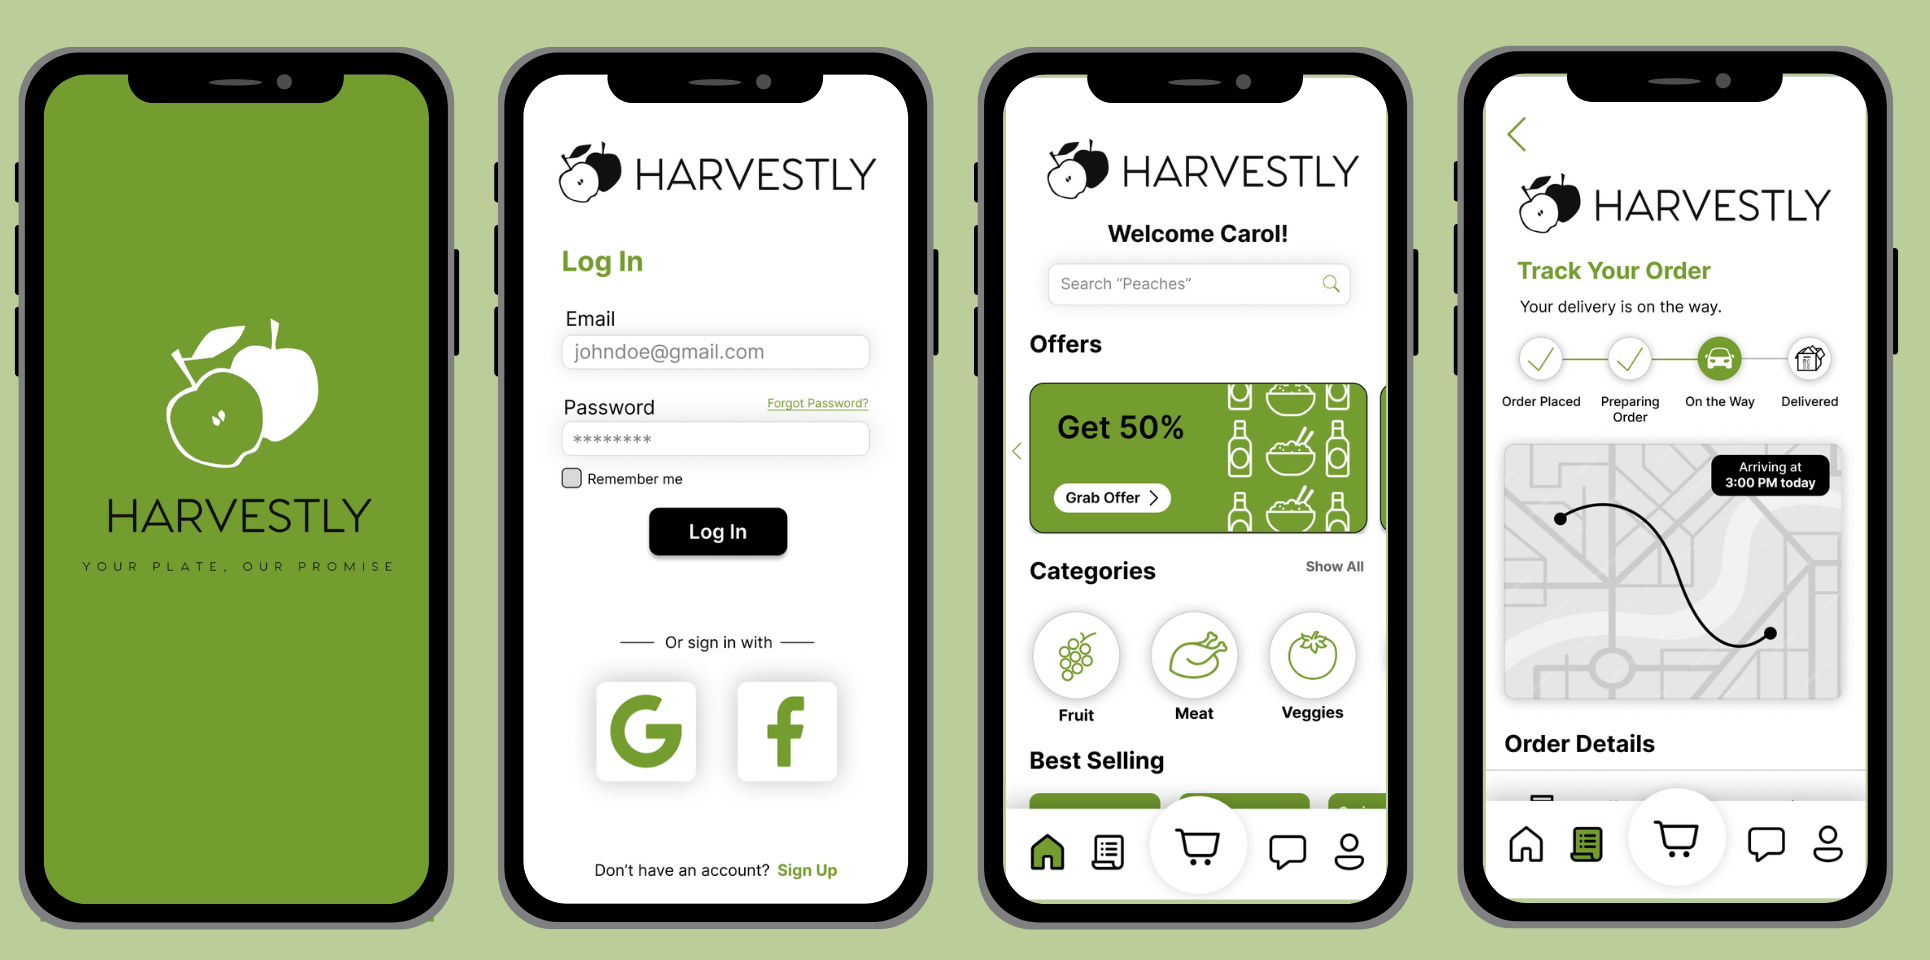
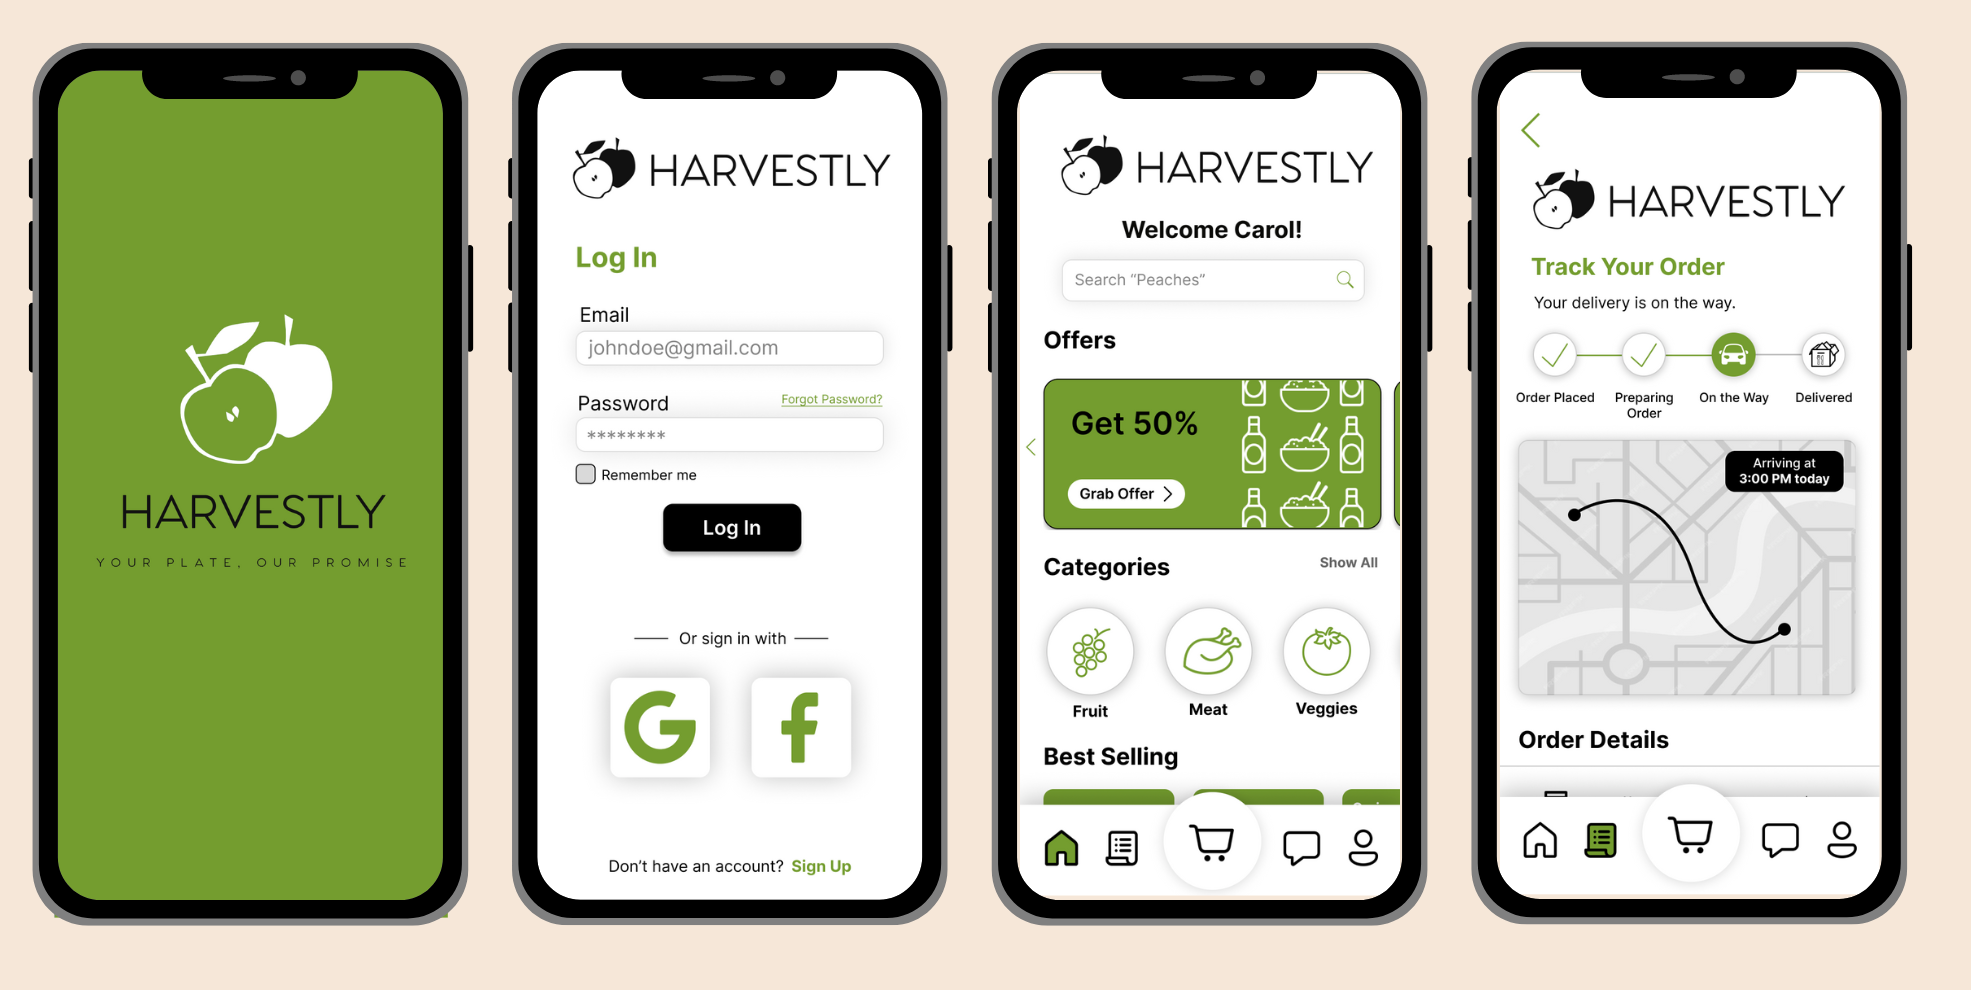
background color change

diff --git a/src/app/app.component.less b/src/app/app.component.less
@@ -19,11 +19,11 @@ body {
 }
 
 .section_body{
-    //background-color: #F6E7D8;
+    background-color: #F6E7D8;
     display: flex;
     align-items: center;
     flex-direction: column;
-    height: 120rem;
+    height: 200rem;
     margin: 0rem;
 
 }
@@ -66,7 +66,7 @@ body {
 }
 [tuiWrapper][data-appearance='custom'] {
     background:#303030;
-    color: #fff;
+    color: #F6E7D8;
     width: 20rem;
     height: 4.5rem;
     font-size: x-large;
@@ -102,19 +102,23 @@ border-style: solid;
 }
 .section_case_1{
     border-radius: 2rem;
-    background: #246E8D;
+    background: #F6E7D8;
     width: 90%;
+    border-style: solid;
+    margin-bottom: 2rem;
 }
 .section_case_2{
     border-radius: 2rem;
-    background: #BBCE9A;
+    background:#F6E7D8;
     width: 90%;
+    border-style: solid;
 }
 .section_case_3{
     margin:2rem 0rem 2rem 0rem;
     border-radius: 2rem;
-    background: #0A0C0C;
+    background: #F6E7D8;
     width: 90%;
+    border-style:solid;
 }
 .header_case{
     padding: 2rem 0rem 2rem 2rem;
